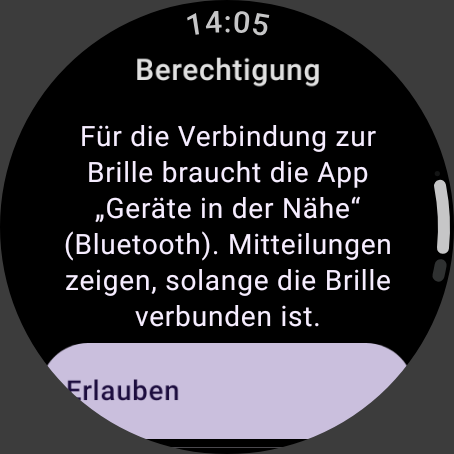
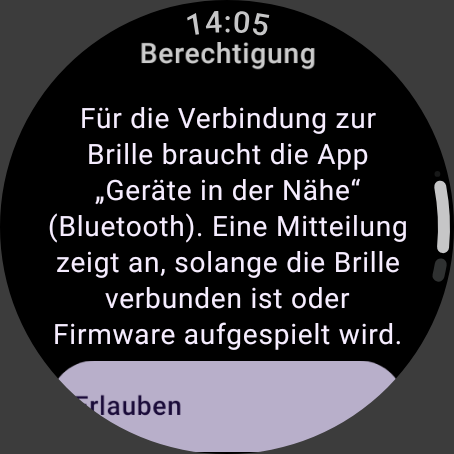
Fix the desktop session ending at once; German failure texts; honest durations
- GlassesConnection ended every session immediately: Faceclaw's core
  reports its initial "disconnected" phase as soon as the listener is
  set. Only a "disconnected" after the session got under way is its
  teardown now (test fakes emit the initial phase like the real core)
- Settings stay reachable from the status page whenever no connection
  is being set up, so the way back to the original firmware is open
- Faceclaw's English failure texts are mapped to German sentences with
  watch instructions; the original text goes to the protocol
- Test run also detects silent mode; its label says what it checks
- Durations: up to about 35 minutes (about 17 per lens); newer firmware
  than 2.3.0.24 is refused on the confirm page, not after a test run
- Grammar fixes on the status and permission pages

Claude-Session: https://claude.ai/code/session_01HuvMy7K9HZjcvpoyqKZXXz

Changed region(s): [[0.0925, 0.2159, 0.8943, 0.9251], [0.2775, 0.0925, 0.7093, 0.2159], [0.3392, 0.9559, 0.6784, 1.0]]

diff --git a/app/src/main/java/ch/madtreasures/g2watch/firmware/FirmwareJob.kt b/app/src/main/java/ch/madtreasures/g2watch/firmware/FirmwareJob.kt
@@ -1,5 +1,6 @@
 package ch.madtreasures.g2watch.firmware
 
+import ch.madtreasures.g2watch.glasses.FaceclawMessages
 import ch.madtreasures.g2watch.glasses.FirmwareInstall
 import ch.madtreasures.g2watch.glasses.FirmwareKind as GlassesFirmwareKind
 import ch.madtreasures.g2watch.glasses.FirmwareRequirement
@@ -327,11 +328,10 @@ class FirmwareJob(
     }
 
     private fun promptFailure(state: String, detail: String): String = when {
-        detail == FlashPromptFlow.SILENT_MODE_MESSAGE ->
-            "Die Brille ist im Lautlos-Modus und kann die Frage nicht zeigen. Beide Touchpads der Brille lange drücken, um ihn zu verlassen, dann erneut versuchen. $UNTOUCHED"
+        detail == FlashPromptFlow.SILENT_MODE_MESSAGE -> SILENT_TEXT
         state == "timeout" -> "Auf der Brille wurde nichts gewählt. $UNTOUCHED"
         state == "disconnected" -> "Die Verbindung zur Brille ist abgerissen. $UNTOUCHED"
-        else -> "Die Brille ließ sich nicht verbinden (${detail.ifBlank { state }}). Brille aus dem Etui nehmen, am Handy Bluetooth ausschalten oder die Even-App beenden. $UNTOUCHED"
+        else -> "${FaceclawMessages.german(detail.ifBlank { state })}. Brille aus dem Etui nehmen, am Handy Bluetooth ausschalten oder die Even-App beenden. $UNTOUCHED"
     }
 
     // --- 6. transfer ---------------------------------------------------------------------------
@@ -407,7 +407,7 @@ class FirmwareJob(
                 else -> "Das linke Glas hat die neue Firmware, das rechte nicht. $FLASH_UNKNOWN"
             }
             val mtuHint = if (link.mtuRefusalCount > 0) " Die Bluetooth-Verbindung der Uhr war zu schmal (MTU unter ${GuardedStockLink.MIN_MTU})." else ""
-            throw Stop("Übertragung abgebrochen: ${failure.ifBlank { "unbekannter Fehler" }}.$mtuHint $state")
+            throw Stop("Übertragung abgebrochen: ${FaceclawMessages.german(failure)}.$mtuHint $state")
         }
     }
 
@@ -496,11 +496,13 @@ class FirmwareJob(
                 try {
                     session.bringUp(address, otaChannel = true)
                 } catch (e: IllegalStateException) {
-                    throw Stop("${lensName(name)}: Update-Kanal nicht erreichbar (${e.message}). $UNTOUCHED")
+                    log("test run $name: ${e.message}")
+                    throw Stop("${lensName(name)}: Update-Kanal nicht erreichbar – ${FaceclawMessages.german(e.message)}. $UNTOUCHED")
                 }
                 if (session.authenticate(address, "ota") != StockLinkSession.AuthResult.SUCCESS) {
-                    throw Stop("${lensName(name)}: Kopplung auf dem Update-Kanal nicht bestätigt. $UNTOUCHED")
+                    throw Stop("${lensName(name)}: Kopplung auf dem Update-Kanal nicht bestätigt – falls die Uhr eine Kopplungsanfrage zeigt: bestätigen. $UNTOUCHED")
                 }
+                if (name == "right") checkNotSilent(session, address)
                 val mtu = link.mtu(address)
                 mtus[name] = mtu
                 session.disconnectQuietly(address)
@@ -523,6 +525,20 @@ class FirmwareJob(
                 "Es wurde nichts auf die Brille geschrieben.",
             testRun = true,
         )
+    }
+
+    /** The prompt of a real transfer appears on the right lens; in silent mode it cannot. */
+    private fun checkNotSilent(session: StockLinkSession, address: String) {
+        val silent = try {
+            session.sendPrelude(address)
+            val pb = session.readSettings(address, env.timings.queryTimeoutMs) ?: session.unsolicitedSettingsPb
+            pb?.let { BleProtocol.parseSettingsBattery(it) }?.silentMode ?: -1
+        } catch (e: IllegalStateException) {
+            log("test run silent check: ${e.message}")
+            -1
+        }
+        log("test run: silent mode ${if (silent < 0) "unknown" else if (silent > 0) "on" else "off"}")
+        if (silent > 0) throw Stop(SILENT_TEXT)
     }
 
     // --- helpers -------------------------------------------------------------------------------
@@ -565,6 +581,9 @@ class FirmwareJob(
 
     companion object {
         const val UNTOUCHED = "Nichts wurde an der Brille verändert."
+        const val SILENT_TEXT =
+            "Die Brille ist im Lautlos-Modus und kann die Frage nicht zeigen. Beide Touchpads der Brille lange drücken, " +
+                "um ihn zu verlassen, dann erneut versuchen. $UNTOUCHED"
         const val FLASH_UNKNOWN =
             "Welche Firmware die Brille jetzt startet, ist unklar. Brille laden und neu starten (5× schnell auf beide " +
                 "Touchflächen tippen); startet sie, die Übertragung erneut starten oder die Original-Firmware aufspielen. " +

diff --git a/app/src/main/java/ch/madtreasures/g2watch/ui/Screens.kt b/app/src/main/java/ch/madtreasures/g2watch/ui/Screens.kt
@@ -66,7 +66,7 @@ fun PermissionScreen(onRequest: () -> Unit, onOpenSettings: () -> Unit) {
             item {
                 CenterText(
                     "Für die Verbindung zur Brille braucht die App „Geräte in der Nähe“ (Bluetooth). " +
-                        "Mitteilungen zeigen, solange die Brille verbunden ist.",
+                        "Eine Mitteilung zeigt an, solange die Brille verbunden ist oder Firmware aufgespielt wird.",
                     size = 14,
                 )
             }
@@ -237,15 +237,24 @@ fun StatusScreen(
             if (state.detail.isNotEmpty()) item { CenterText(state.detail, size = 13) }
             state.firmware?.let { item { CenterText("Firmware: ${it.summary}", color = MaterialTheme.colorScheme.onSurfaceVariant, size = 12) } }
             if (state.stage == Stage.INCOMPATIBLE) {
+                val newer = state.firmware?.let { v -> FirmwareRequirement.isNewerThanBase(v.leftVersion) || FirmwareRequirement.isNewerThanBase(v.rightVersion) } == true
                 item {
                     CenterText(
-                        "Die App verändert keine Firmware von sich aus. In den Einstellungen lässt sich die " +
-                            "passende Custom-Firmware aufspielen – oder die Original-Firmware zurück.",
+                        if (newer) {
+                            "Diese Brille hat eine neuere Firmware als ${FirmwareRequirement.BASE_STOCK_VERSION}. " +
+                                "Darauf spielt die App nichts auf; die Custom-Firmware gibt es nur für ${FirmwareRequirement.BASE_STOCK_VERSION}."
+                        } else {
+                            "Die App verändert keine Firmware von sich aus. In den Einstellungen lässt sich die " +
+                                "passende Custom-Firmware aufspielen oder die Original-Firmware zurückspielen."
+                        },
                         color = WarnOrange,
                         size = 12,
                     )
                 }
                 item { FilledTonalButton(onClick = onSettings, modifier = Modifier.fillMaxWidth()) { Text("Einstellungen") } }
+            } else if (!state.stage.busy) {
+                // Firmware (e.g. back to the original) stays reachable whatever the connection does.
+                item { OutlinedButton(onClick = onSettings, modifier = Modifier.fillMaxWidth()) { Text("Einstellungen") } }
             }
             if (state.stage == Stage.FAILED) {
                 item {
@@ -259,8 +268,6 @@ fun StatusScreen(
                 item {
                     OutlinedButton(onClick = onCancel, modifier = Modifier.fillMaxWidth()) { Text("Andere Brille") }
                 }
-                // Firmware (e.g. back to the original) stays reachable when the check itself fails.
-                item { OutlinedButton(onClick = onSettings, modifier = Modifier.fillMaxWidth()) { Text("Einstellungen") } }
             }
             item { OutlinedButton(onClick = onLog, modifier = Modifier.fillMaxWidth()) { Text("Protokoll") } }
         }

diff --git a/app/src/main/java/ch/madtreasures/g2watch/ui/SettingsScreen.kt b/app/src/main/java/ch/madtreasures/g2watch/ui/SettingsScreen.kt
@@ -114,7 +114,7 @@ fun SettingsScreen(
                 OutlinedButton(
                     onClick = onTestRun,
                     modifier = Modifier.fillMaxWidth().testTag(TEST_RUN_TAG),
-                    secondaryLabel = { Text("prüft alles, schreibt nichts", fontSize = 11.sp) },
+                    secondaryLabel = { Text("Image, Kopplung, Akku, MTU – schreibt nichts", fontSize = 11.sp) },
                     label = { Text("Testlauf") },
                 )
             }
@@ -387,19 +387,19 @@ internal const val RISKS_TAG = "firmware-risks"
  */
 internal fun firmwareWarning(target: FirmwareTarget): String = when (target) {
     FirmwareTarget.CUSTOM ->
-        "Mit einer Custom-Firmware erlischt die Garantie. Das Aufspielen dauert etwa 10–20 Minuten; die Brille " +
-            "startet zwischen den Gläsern neu. Beide Gläser und die Uhr brauchen mindestens 50 % Akku, und die Brille " +
+        "Mit einer Custom-Firmware erlischt die Garantie. Das Aufspielen dauert bis etwa 35 Minuten (etwa 17 pro " +
+            "Glas); die Brille startet zwischen den Gläsern neu. Beide Gläser und die Uhr brauchen mindestens 50 % Akku, und die Brille " +
             "bleibt bis zum Ende bei der Uhr und nicht im Etui. Ein Abbruch ist meist harmlos; selten kann ein Fehler " +
             "einen Bügel dauerhaft lahmlegen, und dafür gibt es keinen erprobten Rettungsweg."
     FirmwareTarget.ORIGINAL ->
         "Evens Firmware ${FirmwareRequirement.BASE_STOCK_VERSION} ersetzt die Custom-Firmware; die Anzeige der Uhr auf " +
-            "der Brille geht dann nicht mehr. Das Aufspielen dauert etwa 10–20 Minuten. Beide Gläser und die Uhr " +
+            "der Brille geht dann nicht mehr. Das Aufspielen dauert bis etwa 35 Minuten. Beide Gläser und die Uhr " +
             "brauchen mindestens 50 % Akku, und die Brille bleibt bis zum Ende bei der Uhr und nicht im Etui."
 }
 
 /** Title and text of each point on [RisksScreen]. */
 internal val RISKS = listOf(
-    "Rückweg" to "Solange die Brille startet und sich verbinden lässt, spielt „Original-Firmware“ hier Evens Firmware " +
+    "Rückweg" to "Solange die Brille startet, sich verbinden lässt und höchstens ${FirmwareRequirement.BASE_STOCK_VERSION} meldet, spielt „Original-Firmware“ hier Evens Firmware " +
         "${FirmwareRequirement.BASE_STOCK_VERSION} zurück. Auch ein Update der Even-App entfernt die Custom-Firmware, " +
         "sobald Even eine neuere Version anbietet.",
     "Abbruch" to "Bricht die Übertragung ab, startet die Brille meist mit der bisherigen Firmware. Dann einfach neu " +

diff --git a/app/src/main/java/ch/madtreasures/g2watch/glasses/GlassesConnection.kt b/app/src/main/java/ch/madtreasures/g2watch/glasses/GlassesConnection.kt
@@ -167,7 +167,8 @@ class GlassesConnection internal constructor(
             override fun onError(message: String?) {
                 if (gen != generation) return
                 releaseProbe()
-                fail("Firmware-Prüfung fehlgeschlagen: ${message.orEmpty()}")
+                log("Firmware-Prüfung: ${message.orEmpty()}")
+                fail("Firmware-Prüfung fehlgeschlagen: ${FaceclawMessages.german(message)}")
             }
         })
     }
@@ -226,9 +227,18 @@ class GlassesConnection internal constructor(
     private inner class SessionListener(private val gen: Int) : FaceclawBleCommunicatorListener {
         private val current: Boolean get() = gen == generation && active != null
 
+        /**
+         * Faceclaw's core reports its current phase as soon as the listener is set, and that is
+         * "disconnected" before it even started connecting. Only a "disconnected" after the session
+         * got under way is its own teardown.
+         */
+        private var underWay = false
+
         override fun onStateChange(phase: String?, status: String?) {
             if (!current) return
             log("Sitzung: $phase – $status")
+            if (phase == "disconnected" && !underWay) return
+            underWay = true
             val stage = when (phase) {
                 "connected" -> Stage.CONNECTED
                 "charging" -> Stage.CHARGING
@@ -256,7 +266,15 @@ class GlassesConnection internal constructor(
                 Stage.CHARGING, Stage.RECONNECTING -> active?.session?.setScreenOn(false)
                 else -> Unit
             }
-            setState(_state.value.copy(stage = stage, detail = status.orEmpty()))
+            // Faceclaw's status text is English and already in the protocol; the page gets German.
+            val detail = when (stage) {
+                Stage.CONNECTED -> ""
+                Stage.CHARGING -> "Die Brille lädt im Etui."
+                Stage.RECONNECTING -> "Verbindung verloren, verbinde neu …"
+                Stage.DISCONNECTING -> "Trenne …"
+                else -> "Verbinde mit der Brille …"
+            }
+            setState(_state.value.copy(stage = stage, detail = detail))
             desktop.updateStatus { it.copy(connection = stage.label) }
             parts.updateForeground(stage.label)
         }

diff --git a/app/src/test/java/ch/madtreasures/g2watch/glasses/GlassesConnectionTest.kt b/app/src/test/java/ch/madtreasures/g2watch/glasses/GlassesConnectionTest.kt
@@ -56,6 +56,9 @@ class GlassesConnectionTest {
         override fun start(listener: FaceclawBleCommunicatorListener) {
             this.listener = listener
             listening = true
+            // Like Faceclaw's GlassesSessionCore: setListener() reports the initial phase at once
+            // (posted to the main thread), before the session has even started connecting.
+            main.post { if (listening) listener.onStateChange("disconnected", "Disconnected.") }
         }
 
         override fun stopListening() {
@@ -154,6 +157,26 @@ class GlassesConnectionTest {
     }
 
     @Test
+    fun `the session's initial disconnected report does not end it`() {
+        checkWith(CURRENT)
+        advance(2_000)
+        val session = parts.sessions.single()
+        settle()
+        assertTrue(session.listening)
+        assertFalse(session.closed)
+        assertEquals(Stage.CONNECTING, state.stage)
+        session.listener!!.onStateChange("connecting", "Connecting…")
+        session.listener!!.onStateChange("connected", "Connected.")
+        settle()
+        assertEquals(Stage.CONNECTED, state.stage)
+        // Once it was under way, "disconnected" is Faceclaw's own teardown and ends it as before.
+        session.listener!!.onStateChange("disconnected", "Disconnected.")
+        settle()
+        assertEquals(Stage.IDLE, state.stage)
+        assertTrue(session.closed)
+    }
+
+    @Test
     fun `the check runs first and alone`() {
         connection.connect("G2 Test", RIGHT, LEFT)
         settle()
@@ -194,7 +217,9 @@ class GlassesConnectionTest {
         parts.probes.single().listener!!.onError("no response")
         advance(10_000)
         assertEquals(Stage.FAILED, state.stage)
-        assertTrue(state.detail.contains("no response"))
+        // German on the page, Faceclaw's own words in the protocol.
+        assertTrue(state.detail, state.detail.contains("nicht rechtzeitig geantwortet"))
+        assertTrue(connection.log.value.any { it.contains("no response") })
         assertTrue(parts.sessions.isEmpty())
     }
 

diff --git a/app/src/main/java/ch/madtreasures/g2watch/glasses/FaceclawMessages.kt b/app/src/main/java/ch/madtreasures/g2watch/glasses/FaceclawMessages.kt
@@ -1,0 +1,31 @@
+package ch.madtreasures.g2watch.glasses
+
+/**
+ * Faceclaw's flows report failures as English exception texts, some written for a phone ("if the
+ * phone shows a pairing request"). The watch shows a German sentence with a watch instruction
+ * instead; the original text goes to the protocol only.
+ */
+object FaceclawMessages {
+    fun german(raw: String?): String {
+        val text = raw.orEmpty().lowercase()
+        val reason = when {
+            text.isBlank() -> "Unbekannter Fehler"
+            "cancel" in text -> "Abgebrochen"
+            "authenticat" in text || "pairing" in text || "bond" in text ->
+                "Die Kopplung mit der Brille wurde nicht bestätigt – falls die Uhr eine Kopplungsanfrage zeigt: bestätigen"
+            "lost connection" in text || "not connected" in text || "disconnected" in text || "link dropped" in text ->
+                "Die Verbindung zur Brille ist abgerissen"
+            "could not reach" in text || "connect" in text || "discover" in text || "subscribe" in text ->
+                "Die Brille war nicht erreichbar (eingeschaltet, nah an der Uhr, nicht mit dem Handy verbunden?)"
+            "nak" in text || "rejected" in text || "file_check" in text || "failed after" in text || "verify" in text ->
+                "Die Brille hat einen Teil der Firmware nicht angenommen"
+            "no ack" in text || "timeout" in text || "timed out" in text || "no response" in text || "unanswered" in text ->
+                "Die Brille hat nicht rechtzeitig geantwortet"
+            "prompt" in text || "page" in text || "prelude" in text -> "Die Brille hat die Anfrage nicht angenommen"
+            "silent" in text -> "Die Brille ist im Lautlos-Modus"
+            "bluetooth" in text && ("off" in text || "unavailable" in text || "adapter" in text) -> "Bluetooth der Uhr ist aus"
+            else -> "Unbekannter Fehler"
+        }
+        return "$reason (Details im Protokoll)"
+    }
+}

diff --git a/app/src/test/java/ch/madtreasures/g2watch/firmware/FirmwareJobTest.kt b/app/src/test/java/ch/madtreasures/g2watch/firmware/FirmwareJobTest.kt
@@ -222,6 +222,31 @@ class FirmwareJobTest {
     }
 
     @Test
+    fun `the test run finds silent mode too, so the real prompt will not fail on it`() {
+        val env = FakeFirmwareEnvironment(SimulatedGlasses(silentMode = true))
+        val result = run(env, testRun = true)
+        assertTrue(result is FirmwareInstall.Failed)
+        assertTrue(message(result), message(result).contains("Lautlos-Modus"))
+        assertNothingFlashed(env)
+    }
+
+    @Test
+    fun `failures from Faceclaw's flows reach the wearer in German`() {
+        // The right lens does not come back after the left one's reboot: Faceclaw says
+        // "could not reach right lens: …".
+        val glasses = SimulatedGlasses()
+        glasses.connectResult = { address -> !(address == RIGHT && glasses.otaWrites.any { it.address == LEFT }) }
+        val env = FakeFirmwareEnvironment(glasses)
+        val result = run(env)
+        assertTrue(result is FirmwareInstall.Failed)
+        val text = message(result)
+        assertTrue(text, !text.contains("could not") && !text.contains("phone"))
+        assertTrue(text, text.contains("Die Brille war nicht erreichbar"))
+        assertTrue(text, text.contains("Details im Protokoll"))
+        assertTrue(env.log.any { it.contains("could not reach right lens") })
+    }
+
+    @Test
     fun `a weak or unreadable lens battery writes nothing`() {
         val low = FakeFirmwareEnvironment(SimulatedGlasses(battery = mutableMapOf(RIGHT to 80, LEFT to 49)))
         val lowResult = run(low)

diff --git a/app/src/main/java/ch/madtreasures/g2watch/MainActivity.kt b/app/src/main/java/ch/madtreasures/g2watch/MainActivity.kt
@@ -27,6 +27,7 @@ import androidx.wear.compose.material3.AppScaffold
 import androidx.wear.compose.material3.MaterialTheme
 import androidx.wear.compose.material3.TimeText
 import ch.madtreasures.g2watch.glasses.FirmwareInstall
+import ch.madtreasures.g2watch.glasses.FirmwareRequirement
 import ch.madtreasures.g2watch.glasses.FirmwareTarget
 import ch.madtreasures.g2watch.glasses.Stage
 import ch.madtreasures.g2watch.ui.DevicesScreen
@@ -225,7 +226,10 @@ class MainActivity : ComponentActivity() {
                     description = firmware.describe(firmwareTarget),
                     onGlasses = state.firmware?.summary,
                     onCancel = { screen = Screen.SETTINGS },
-                    blocker = firmware.blocker(firmwareTarget),
+                    blocker = state.firmware
+                        ?.takeIf { FirmwareRequirement.isNewerThanBase(it.leftVersion) || FirmwareRequirement.isNewerThanBase(it.rightVersion) }
+                        ?.let { "Die Brille meldet eine neuere Firmware als ${FirmwareRequirement.BASE_STOCK_VERSION}. Darauf spielt die App nichts auf." }
+                        ?: firmware.blocker(firmwareTarget),
                     onRisks = { risksReturn = Screen.FIRMWARE_CONFIRM; screen = Screen.RISKS },
                     onConfirm = {
                         glasses.note("Firmware: ${firmwareTarget.label} bestätigt")

diff --git a/app/src/main/java/ch/madtreasures/g2watch/firmware/WatchFirmwareInstaller.kt b/app/src/main/java/ch/madtreasures/g2watch/firmware/WatchFirmwareInstaller.kt
@@ -118,7 +118,8 @@ class WatchFirmwareInstaller(
         const val NO_GLASSES = "Noch keine Brille gewählt. Zuerst die Brille suchen und verbinden."
         const val INTERRUPTED = "Die App wurde während der Übertragung beendet. " + FirmwareJob.FLASH_UNKNOWN
         const val NEEDS_TEST_RUN =
-            "Zuerst einmal den Testlauf machen (Einstellungen → Testlauf). Er prüft alles und schreibt nichts auf die Brille."
+            "Zuerst einmal den Testlauf machen (Einstellungen → Testlauf). Er prüft Image, Kopplung, Akku und Verbindung " +
+                "und schreibt nichts auf die Brille."
     }
 
     private fun kindOf(target: FirmwareTarget) = when (target) {

diff --git a/app/src/test/java/ch/madtreasures/g2watch/ui/SettingsScreenTest.kt b/app/src/test/java/ch/madtreasures/g2watch/ui/SettingsScreenTest.kt
@@ -94,7 +94,7 @@ class SettingsScreenTest {
         var tests = 0
         settings(onTestRun = { tests++ })
         scrollTo(hasTestTag(TEST_RUN_TAG))
-        compose.onNodeWithText("prüft alles, schreibt nichts").assertExists()
+        compose.onNodeWithText("Image, Kopplung, Akku, MTU – schreibt nichts").assertExists()
         compose.onNodeWithTag(TEST_RUN_TAG).performClick()
         assertEquals(1, tests)
     }

diff --git a/README.md b/README.md
@@ -37,17 +37,19 @@ die Brille auch mit der Faceclaw-Handy-App verwendbar, ohne hin und her zu flash
    dem Handy beenden oder am Handy Bluetooth ausschalten – die Brille nimmt nur eine Verbindung an.
 2. **Prüfung.** Die Uhr liest nur die Firmware-Version. Mit Original-Firmware erscheint
    „Firmware passt nicht“ und darunter **Einstellungen**. (Mit Custom-Firmware geht es direkt zum
-   Touchpad; die Einstellungen öffnen sich dort, wenn man das Zahnrad 0,9 s hält.)
+   Touchpad; die Einstellungen öffnen sich dort, wenn man das Zahnrad 0,9 s hält. Die Statusseite bietet
+   die Einstellungen an, sobald keine Verbindung läuft.)
 3. **Testlauf** (Einstellungen → Firmware → *Testlauf*): lädt und baut das Image, koppelt beide Bügel,
-   liest den Akku beider Gläser, verbindet jedes Glas über den Update-Kanal und prüft die
-   Bluetooth-MTU. Er **schreibt nichts** auf die Brille. Erst wenn er für diese Brille bestanden ist,
+   liest den Akku beider Gläser, erkennt den Lautlos-Modus, verbindet jedes Glas über den Update-Kanal
+   und prüft die Bluetooth-MTU. Er **schreibt nichts** auf die Brille – die Frage auf der Brille und die
+   Übertragung selbst prüft er nicht. Erst wenn er für diese Brille bestanden ist,
    bietet die App das echte Aufspielen an.
 4. **Custom-Firmware** (oder **Original-Firmware**) antippen → Bestätigungsseite lesen →
    **„Zum Aufspielen 2 s halten“**.
 5. **Auf der Brille bestätigen:** Die Brille zeigt selbst eine Frage – mit Bügel oder Ring zu
    **„Yes, flash“** wischen und tippen. „No, cancel“ bricht ab, ohne etwas zu verändern.
-6. **Übertragung:** erst das linke Glas, dann startet die Brille kurz neu, dann das rechte. Etwa
-   10–20 Minuten. Die Uhr bleibt an, die Seite hat keinen Zurück-Knopf. Uhr bei der Brille lassen,
+6. **Übertragung:** erst das linke Glas, dann startet die Brille kurz neu, dann das rechte. Bis etwa
+   35 Minuten (etwa 17 pro Glas). Die Uhr bleibt an, die Seite hat keinen Zurück-Knopf. Uhr bei der Brille lassen,
    Brille nicht ins Etui legen.
 7. **Kontrolle:** Nach dem Neustart fragt die Uhr jedes Glas einzeln und meldet z. B.
    „Beide Gläser melden Faceclaw/35“. Mit **OK** verbindet sie sich neu – mit Custom-Firmware startet
